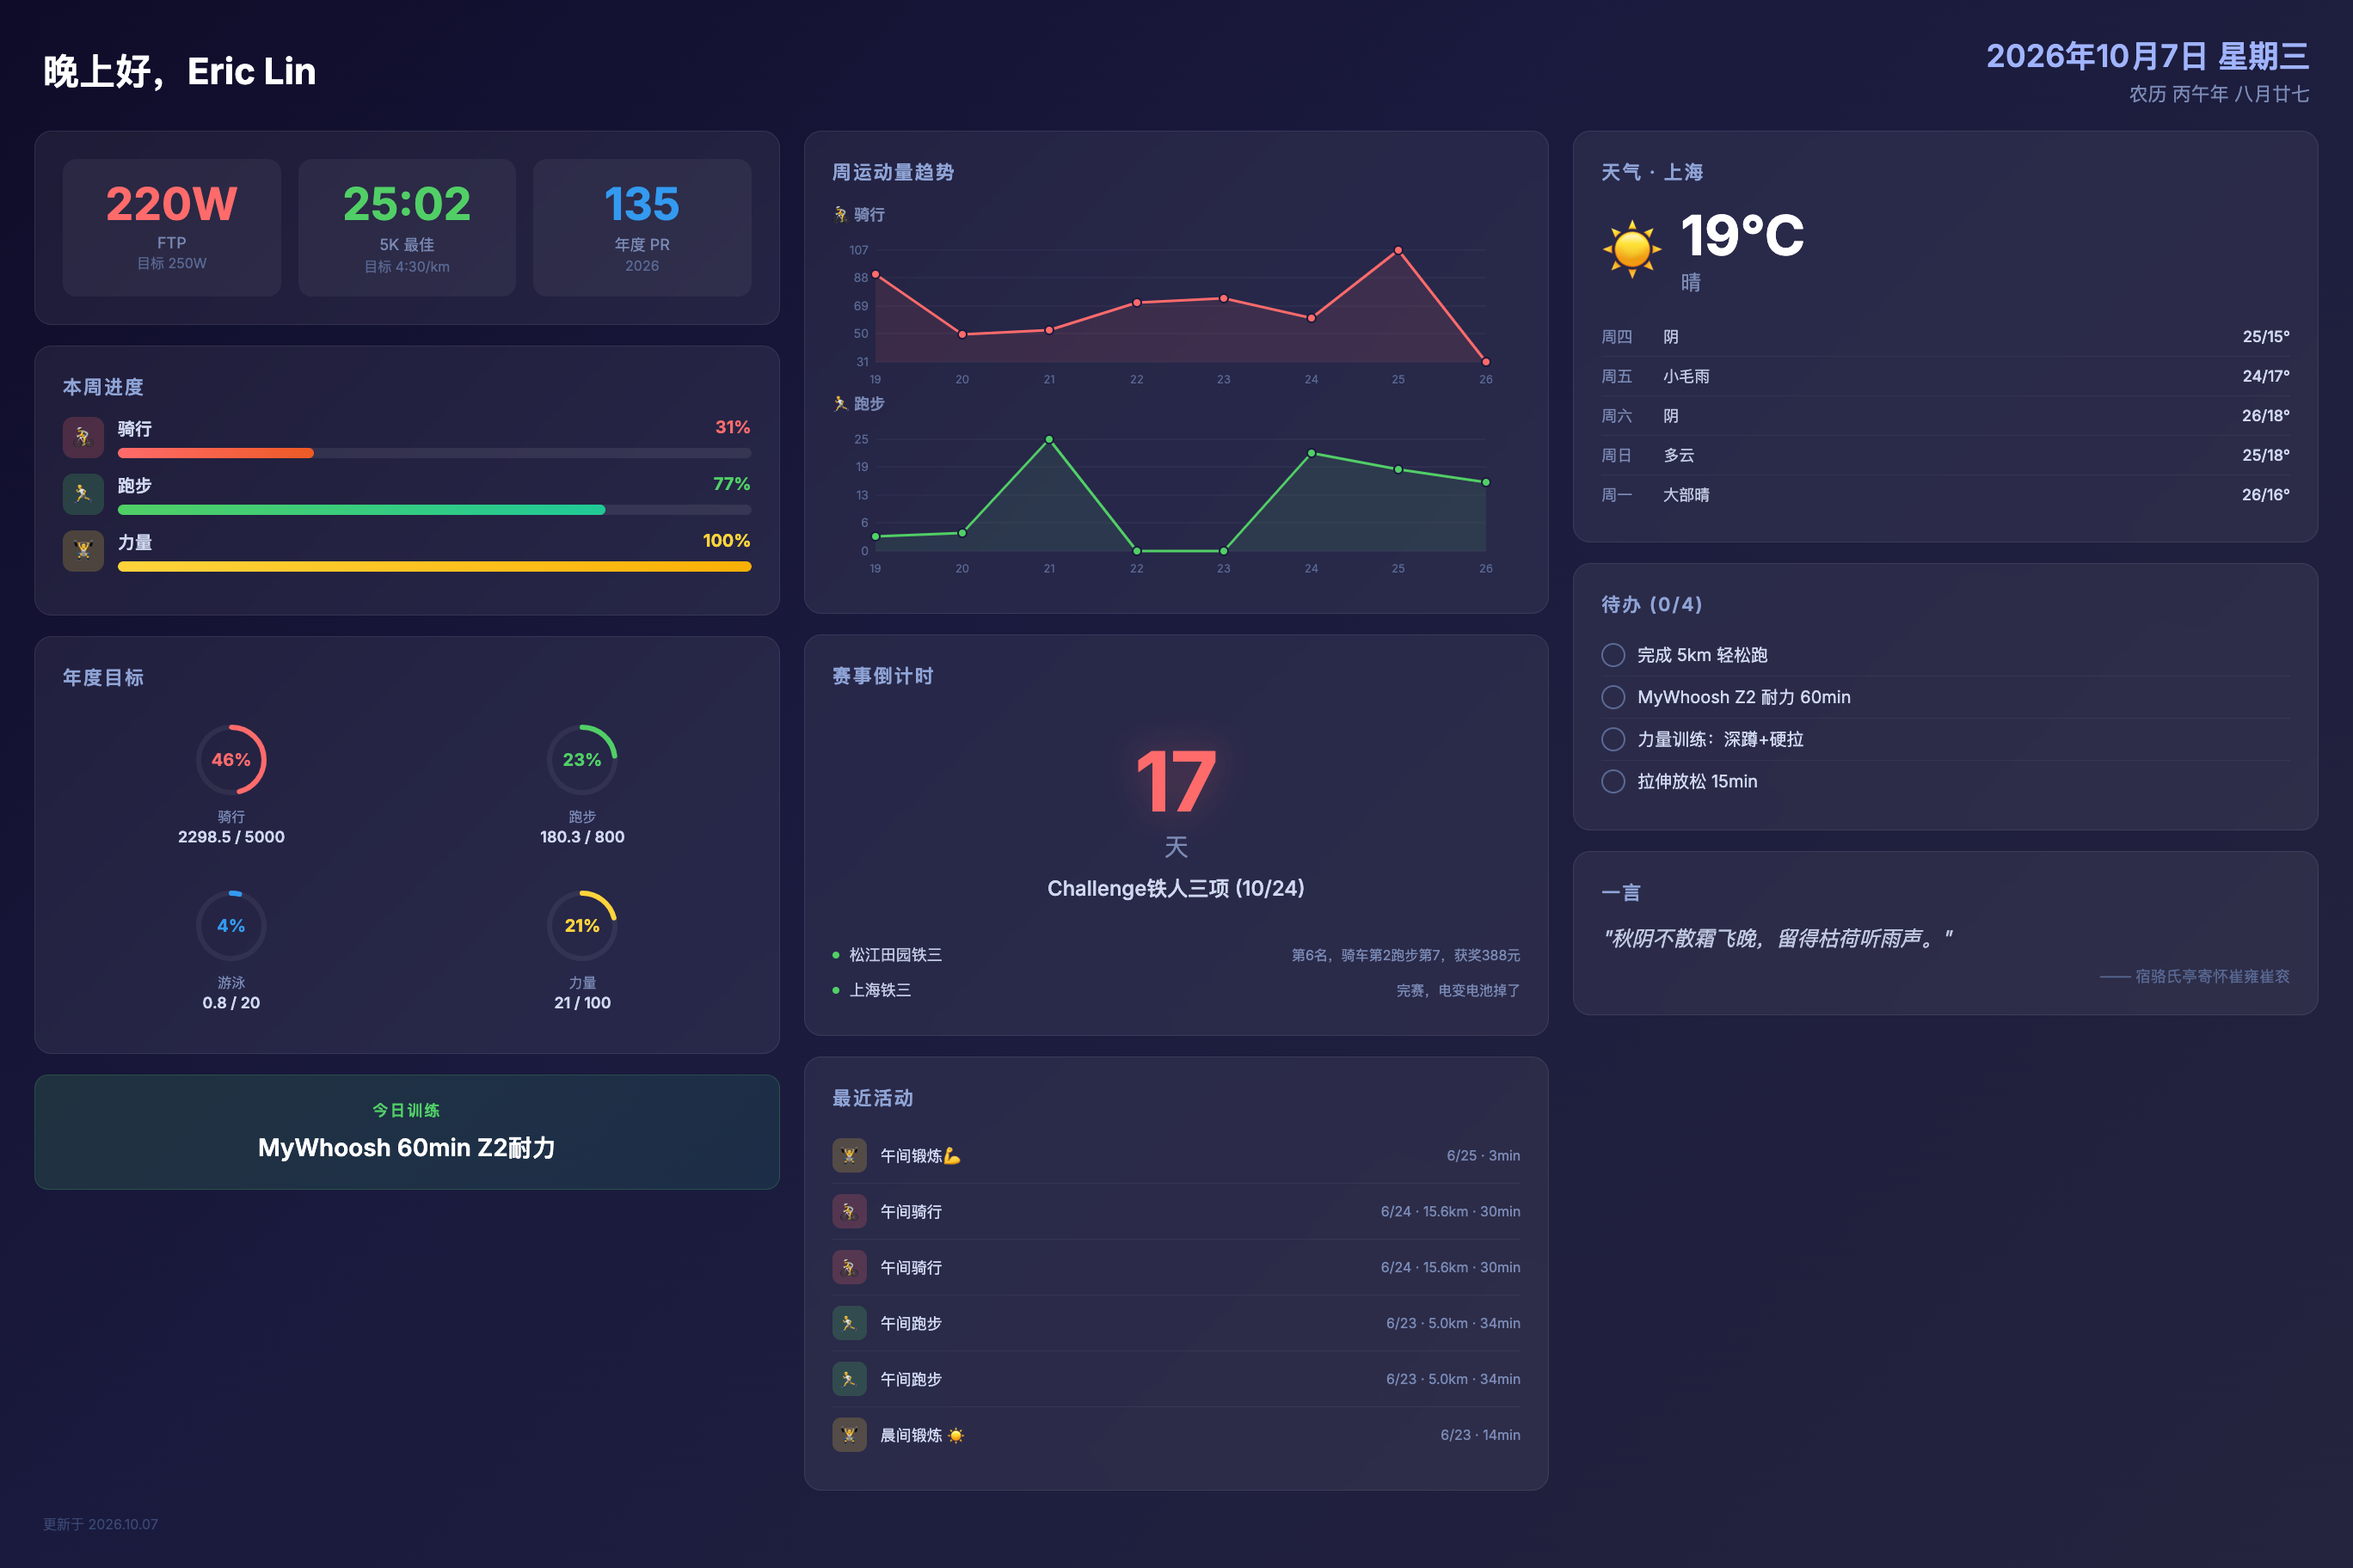
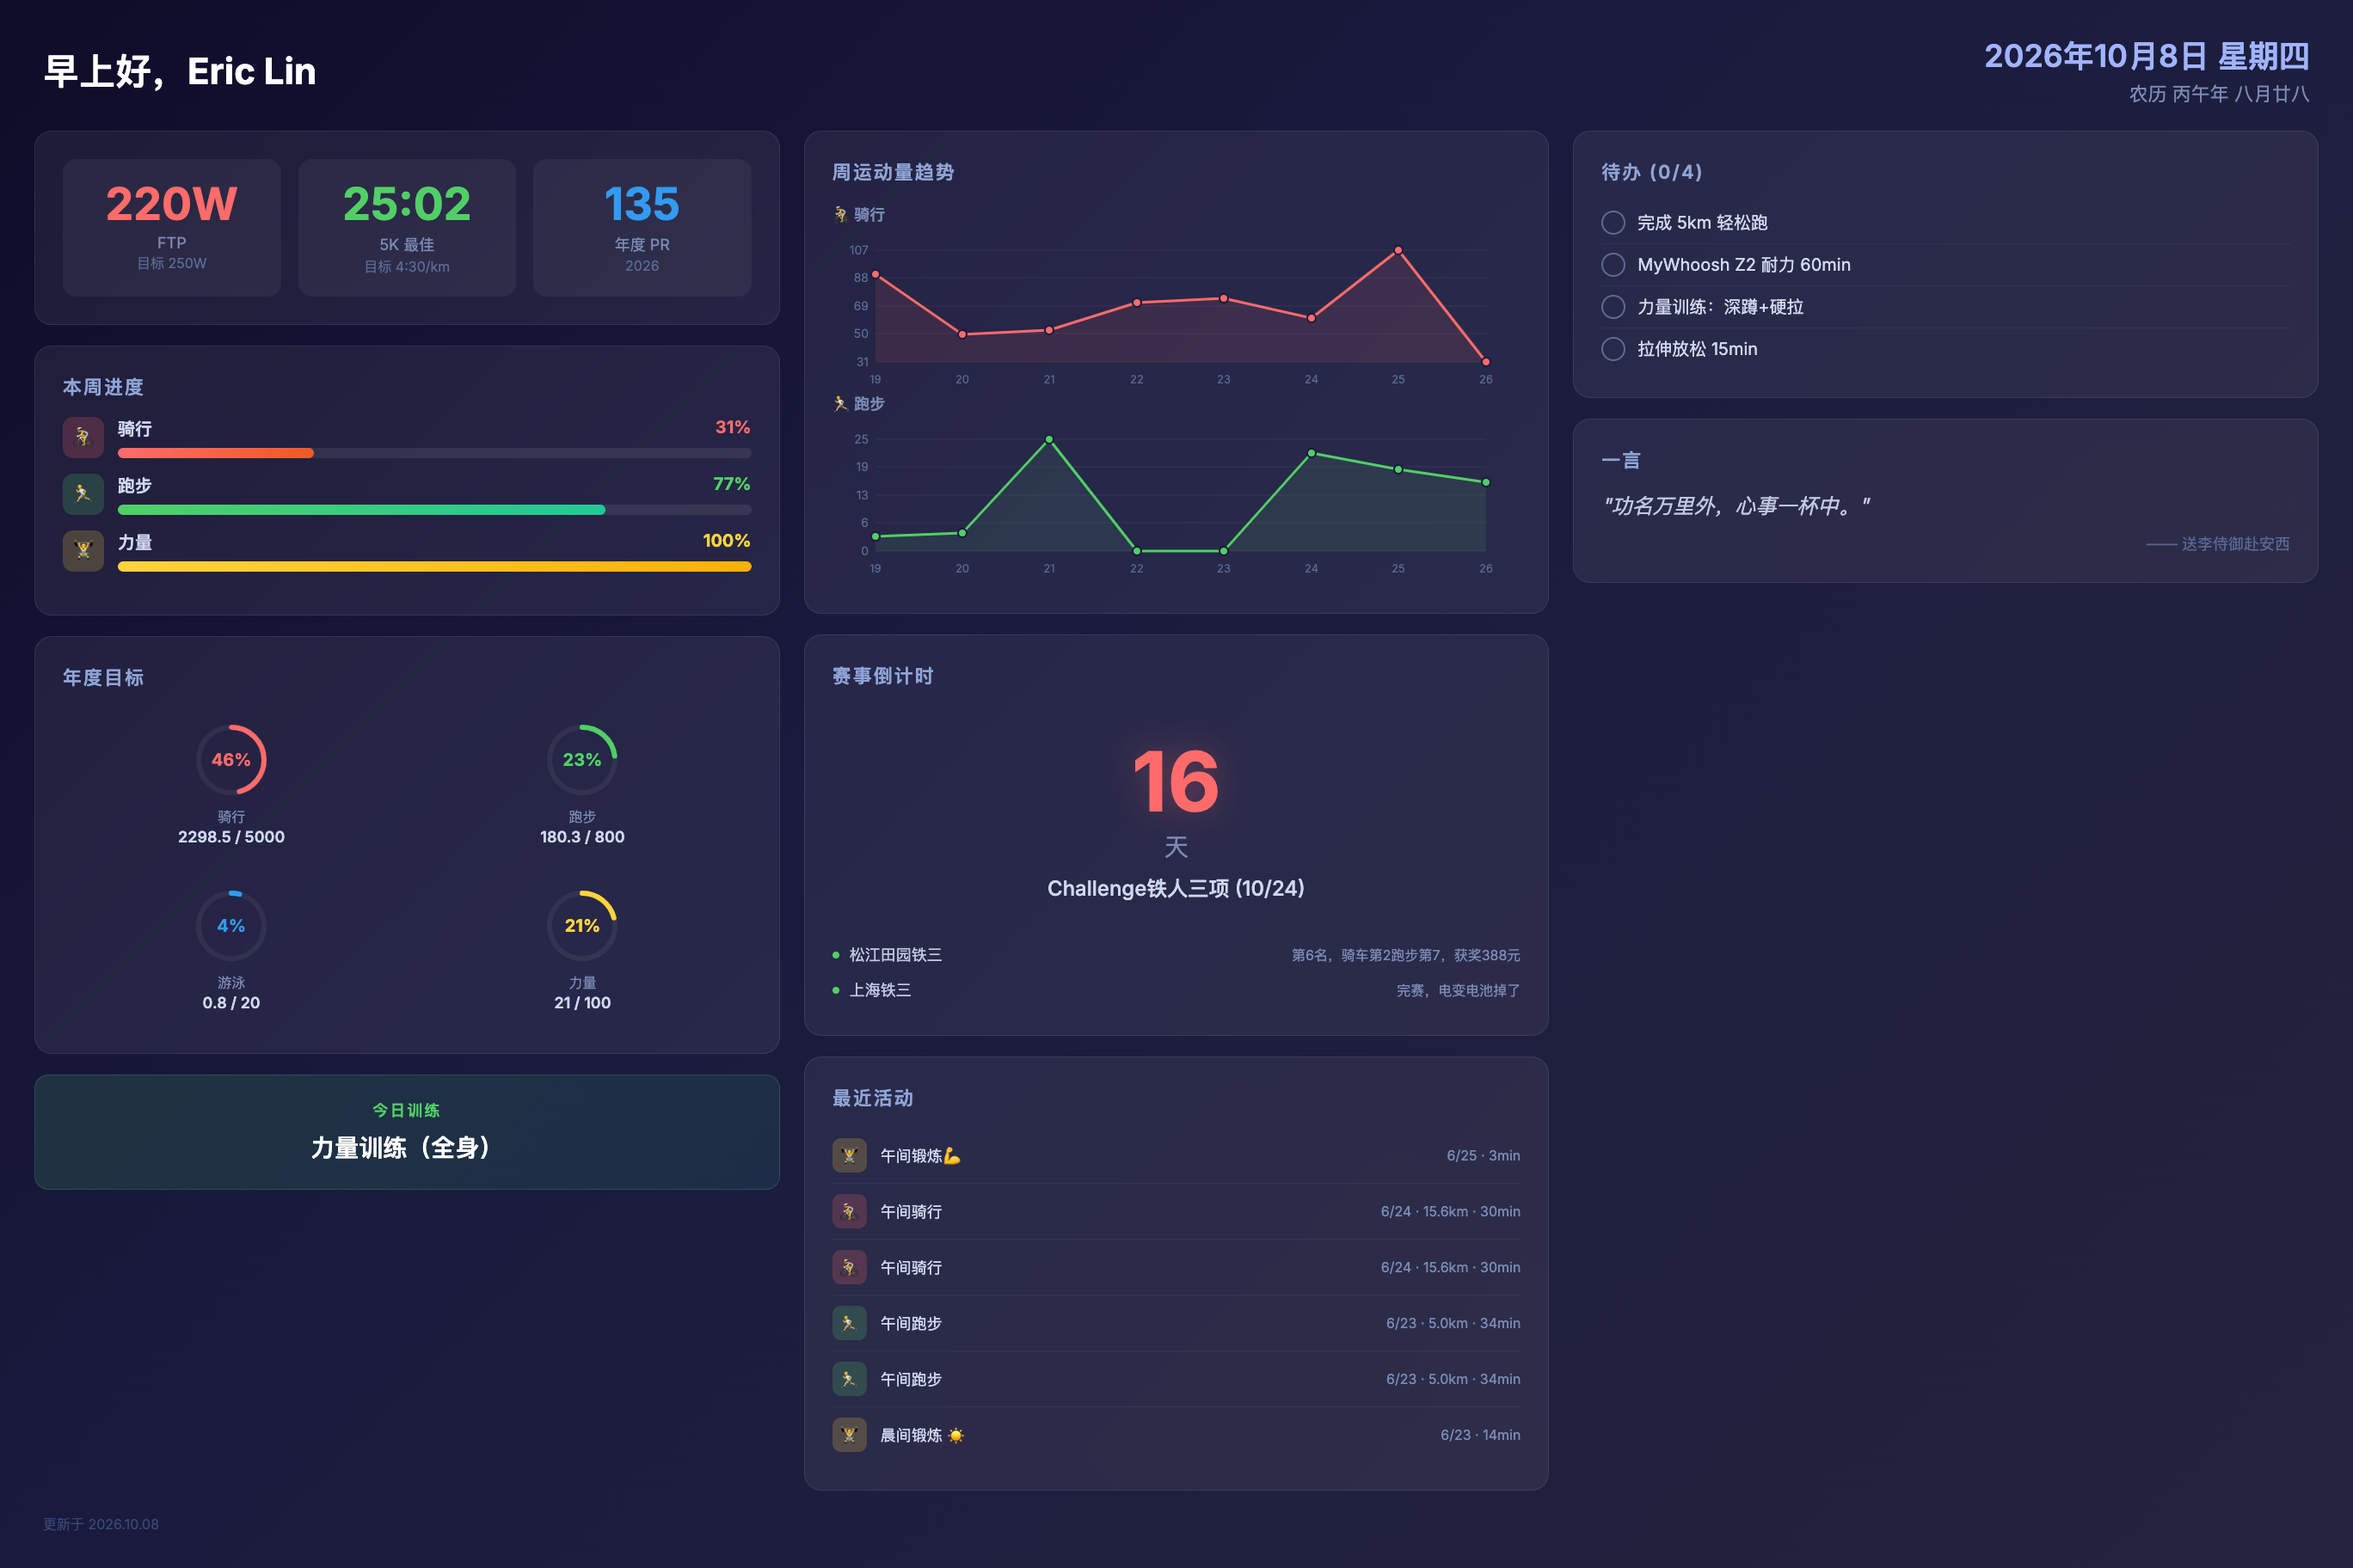
deploy: 2026-10-08-07:00

diff --git a/screensaver.html b/screensaver.html
@@ -490,13 +490,13 @@ html, body {
 <!-- ===== TOP BAR ===== -->
 <div class="top-bar">
   <div>
-    <div class="greeting">晚上好，Eric Lin</div>
+    <div class="greeting">早上好，Eric Lin</div>
     
   </div>
   <div class="date-info">
-    <div class="solar-date">2026年10月7日 星期三</div>
+    <div class="solar-date">2026年10月8日 星期四</div>
     
-    <div class="lunar-date">农历 丙午年 八月廿七</div>
+    <div class="lunar-date">农历 丙午年 八月廿八</div>
     
   </div>
 </div>
@@ -638,7 +638,7 @@ html, body {
   
   <div class="ai-today-card">
     <div class="ai-today-label">今日训练</div>
-    <div class="ai-today-text">MyWhoosh 60min Z2耐力</div>
+    <div class="ai-today-text">力量训练（全身）</div>
   </div>
   
 
@@ -732,7 +732,7 @@ html, body {
   <div class="card">
     <div class="card-title">赛事倒计时</div>
     <div class="race-countdown">
-      <div class="countdown-number">17</div>
+      <div class="countdown-number">16</div>
       <div class="countdown-unit">天</div>
       <div class="countdown-name">Challenge铁人三项 (10/24)</div>
     </div>
@@ -805,56 +805,6 @@ html, body {
 
   <!-- Weather -->
   
-  <div class="card">
-    <div class="card-title">天气 · 上海</div>
-    <div class="weather-current">
-      <div class="weather-icon-big">☀</div>
-      <div>
-        <div class="weather-temp-big">19°C</div>
-        <div class="weather-desc">晴</div>
-      </div>
-    </div>
-    
-    
-    <div class="forecast-row">
-      <div class="forecast-day">周四</div>
-      <div class="forecast-desc">阴</div>
-      <div class="forecast-precip"></div>
-      <div class="forecast-range">25/15°</div>
-    </div>
-    
-    <div class="forecast-row">
-      <div class="forecast-day">周五</div>
-      <div class="forecast-desc">小毛雨</div>
-      <div class="forecast-precip"></div>
-      <div class="forecast-range">24/17°</div>
-    </div>
-    
-    <div class="forecast-row">
-      <div class="forecast-day">周六</div>
-      <div class="forecast-desc">阴</div>
-      <div class="forecast-precip"></div>
-      <div class="forecast-range">26/18°</div>
-    </div>
-    
-    <div class="forecast-row">
-      <div class="forecast-day">周日</div>
-      <div class="forecast-desc">多云</div>
-      <div class="forecast-precip"></div>
-      <div class="forecast-range">25/18°</div>
-    </div>
-    
-    <div class="forecast-row">
-      <div class="forecast-day">周一</div>
-      <div class="forecast-desc">大部晴</div>
-      <div class="forecast-precip"></div>
-      <div class="forecast-range">26/16°</div>
-    </div>
-    
-    
-    
-  </div>
-  
 
   <!-- Todos -->
   
@@ -900,9 +850,9 @@ html, body {
   
   <div class="card">
     <div class="card-title">一言</div>
-    <div class="quote-text">"秋阴不散霜飞晚，留得枯荷听雨声。"</div>
+    <div class="quote-text">"功名万里外，心事一杯中。"</div>
     
-    <div class="quote-from">—— 宿骆氏亭寄怀崔雍崔衮</div>
+    <div class="quote-from">—— 送李侍御赴安西</div>
     
   </div>
   
@@ -911,7 +861,7 @@ html, body {
 
 <!-- ===== BOTTOM BAR ===== -->
 <div class="bottom-bar">
-  <div class="update-time">更新于 2026.10.07</div>
+  <div class="update-time">更新于 2026.10.08</div>
 </div>
 
 </div>

diff --git a/life.html b/life.html
@@ -89,7 +89,7 @@ html, body {
 <table class="header-table">
   <tr>
     <td class="header-left">生活</td>
-    <td class="header-right">2026.10.07</td>
+    <td class="header-right">2026.10.08</td>
   </tr>
 </table>
 
@@ -133,82 +133,16 @@ html, body {
 
 <!-- ===== 天气 ===== -->
 
-<div class="box">
-  <p class="section-title">☀ 天气 · 上海</p>
-  <table class="weather-table">
-    <tr>
-      <td class="weather-icon">*</td>
-      <td class="weather-temp">19°C</td>
-      <td class="weather-desc">晴</td>
-    </tr>
-  </table>
-  
-  <table class="forecast-table">
-    
-    <tr>
-      <td class="forecast-day">周四</td>
-      <td class="forecast-icon">~</td>
-      <td>阴</td>
-      <td class="forecast-range">25/15°C</td>
-    </tr>
-    
-    <tr>
-      <td class="forecast-day">周五</td>
-      <td class="forecast-icon">.</td>
-      <td>小毛雨</td>
-      <td class="forecast-range">24/17°C</td>
-    </tr>
-    
-    <tr>
-      <td class="forecast-day">周六</td>
-      <td class="forecast-icon">~</td>
-      <td>阴</td>
-      <td class="forecast-range">26/18°C</td>
-    </tr>
-    
-    <tr>
-      <td class="forecast-day">周日</td>
-      <td class="forecast-icon">~</td>
-      <td>多云</td>
-      <td class="forecast-range">25/18°C</td>
-    </tr>
-    
-    <tr>
-      <td class="forecast-day">周一</td>
-      <td class="forecast-icon">*</td>
-      <td>大部晴</td>
-      <td class="forecast-range">26/16°C</td>
-    </tr>
-    
-    <tr>
-      <td class="forecast-day">周二</td>
-      <td class="forecast-icon">~</td>
-      <td>阴</td>
-      <td class="forecast-range">27/17°C</td>
-    </tr>
-    
-    <tr>
-      <td class="forecast-day">周三</td>
-      <td class="forecast-icon">~</td>
-      <td>阴</td>
-      <td class="forecast-range">28/19°C</td>
-    </tr>
-    
-  </table>
-  
-  
-</div>
-
 
 <!-- ===== 今日 ===== -->
 <div class="box">
   <p class="section-title">📅 今日</p>
   <table class="data-table">
     <tr>
-      <td>2026年10月7日 星期二</td>
+      <td>2026年10月8日 星期三</td>
     </tr>
     <tr>
-      <td>农历丙午年 八月廿七</td>
+      <td>农历丙午年 八月廿八</td>
     </tr>
   </table>
 </div>
@@ -259,9 +193,9 @@ html, body {
 
 <div class="box">
   <p class="section-title">💬 一言</p>
-  <p class="quote-text">秋阴不散霜飞晚，留得枯荷听雨声。</p>
+  <p class="quote-text">功名万里外，心事一杯中。</p>
   
-  <p class="quote-from">—— 宿骆氏亭寄怀崔雍崔衮</p>
+  <p class="quote-from">—— 送李侍御赴安西</p>
   
 </div>
 

diff --git a/index.html b/index.html
@@ -74,7 +74,7 @@ html, body {
 <table class="header-table">
   <tr>
     <td class="header-left">Eric Lin · 运动</td>
-    <td class="header-right">2026.10.07</td>
+    <td class="header-right">2026.10.08</td>
   </tr>
 </table>
 
@@ -225,17 +225,10 @@ html, body {
 <div class="ai-plan">
   <div class="ai-plan-title">AI 训练建议</div>
   
-  <div class="ai-today">今日: 轻松跑 5km</div>
+  <div class="ai-today">今日: MyWhoosh 间歇 6×3min 高功率</div>
   
   
   <table class="ai-weekly">
-    
-    <tr>
-      <td class="day">周三</td>
-      
-      <td>轻松跑 5km</td>
-      
-    </tr>
     
     <tr>
       <td class="day">周四</td>
@@ -279,6 +272,13 @@ html, body {
       
     </tr>
     
+    <tr>
+      <td class="day">周三</td>
+      
+      <td>轻松跑 5km</td>
+      
+    </tr>
+    
   </table>
   
   
@@ -293,7 +293,7 @@ html, body {
   <p class="section-title">即将到来</p>
   
   <div class="countdown-box">
-    <div class="countdown-days">17</div>
+    <div class="countdown-days">16</div>
     <div class="countdown-label">距 Challenge铁人三项 (10/24)</div>
   </div>
   

diff --git a/work.html b/work.html
@@ -89,7 +89,7 @@ html, body {
 <table class="header-table">
   <tr>
     <td class="header-left">工作</td>
-    <td class="header-right">2026.10.07</td>
+    <td class="header-right">2026.10.08</td>
   </tr>
 </table>
 
